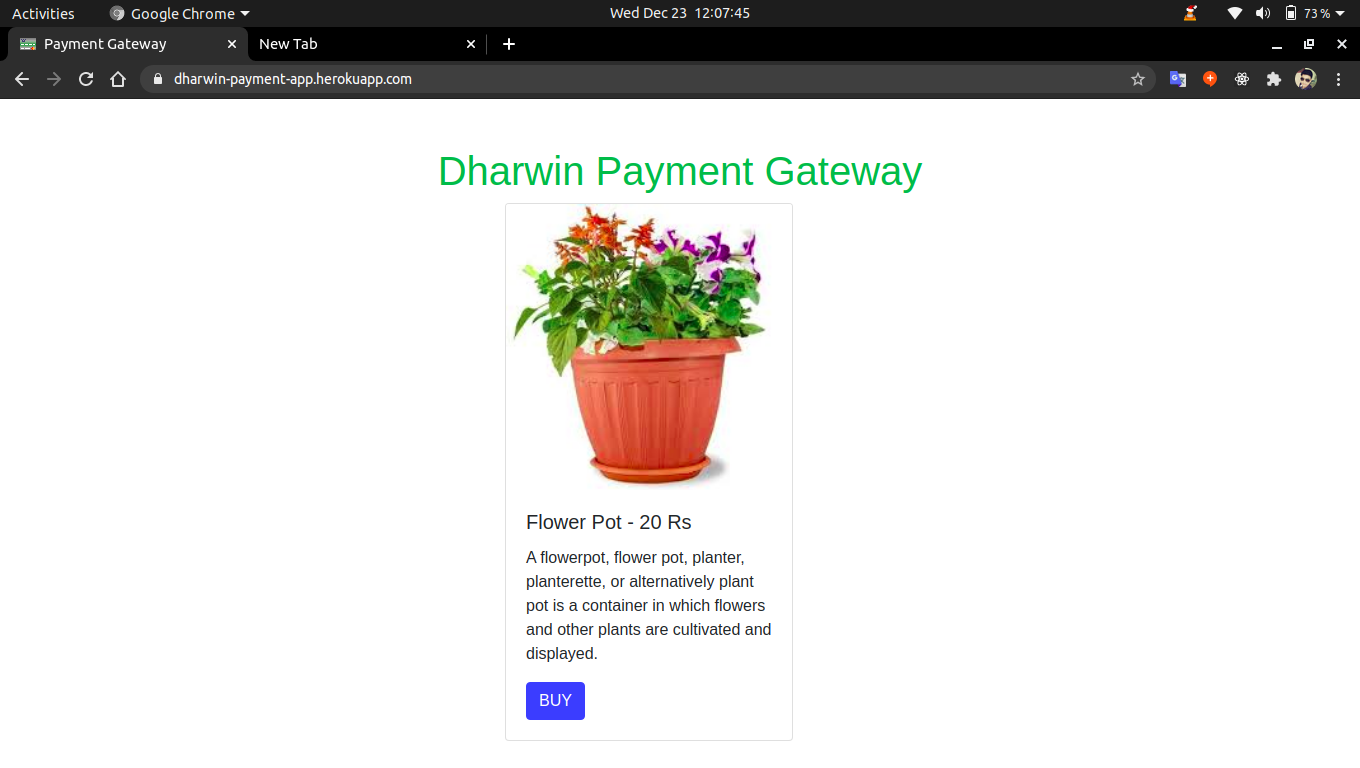
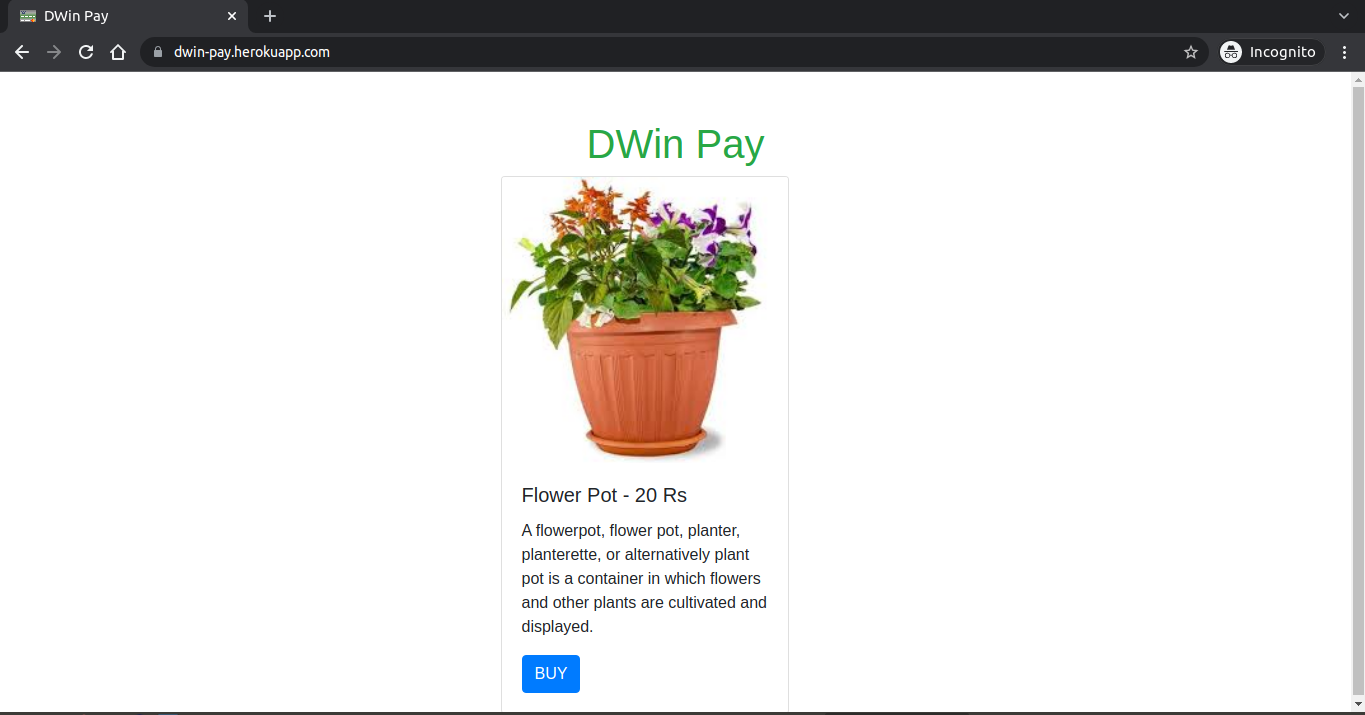
README.md

Changed region(s): [[0.0, 0.0, 1.0, 1.0], [0.3088, 0.1846, 0.6794, 0.6462]]

diff --git a/README.md b/README.md
@@ -1,6 +1,6 @@
-# payment-app
-## Payment Gateway by PayPal using NodeJs
-## Live Demo: https://dharwin-payment-app.herokuapp.com
+# dwin-pay
+## Payment Gateway using PayPal
+## Live Demo: https://dwin-pay.herokuapp.com
 
 <img src="demo_images/0.png">
 
@@ -9,7 +9,3 @@
 <img src="demo_images/2.png">
 
 <img src="demo_images/3.png">
-
-<img src="demo_images/4.png">
-
-<img src="demo_images/5.png">
